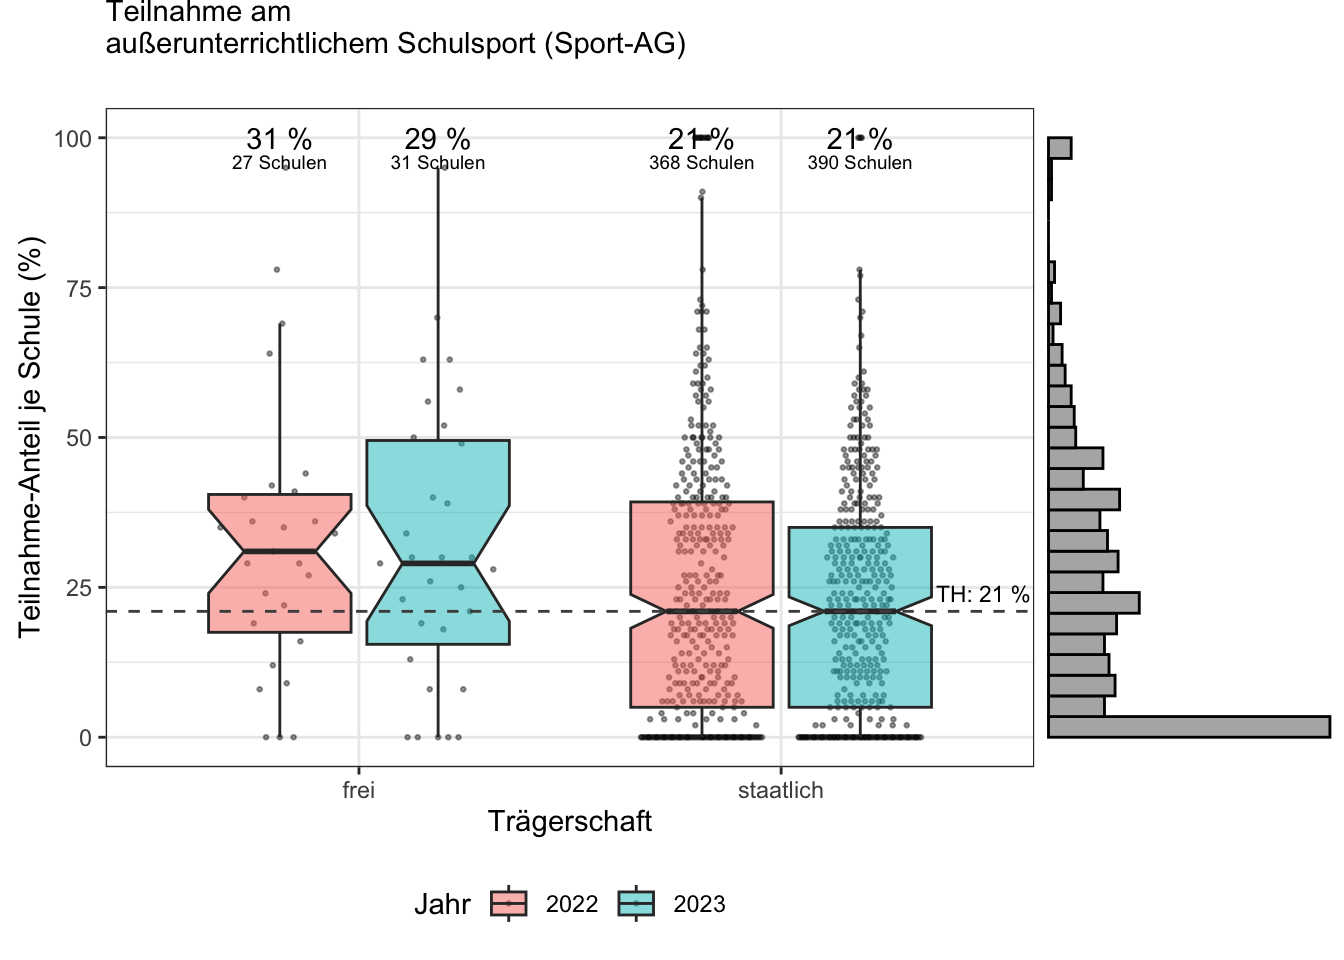
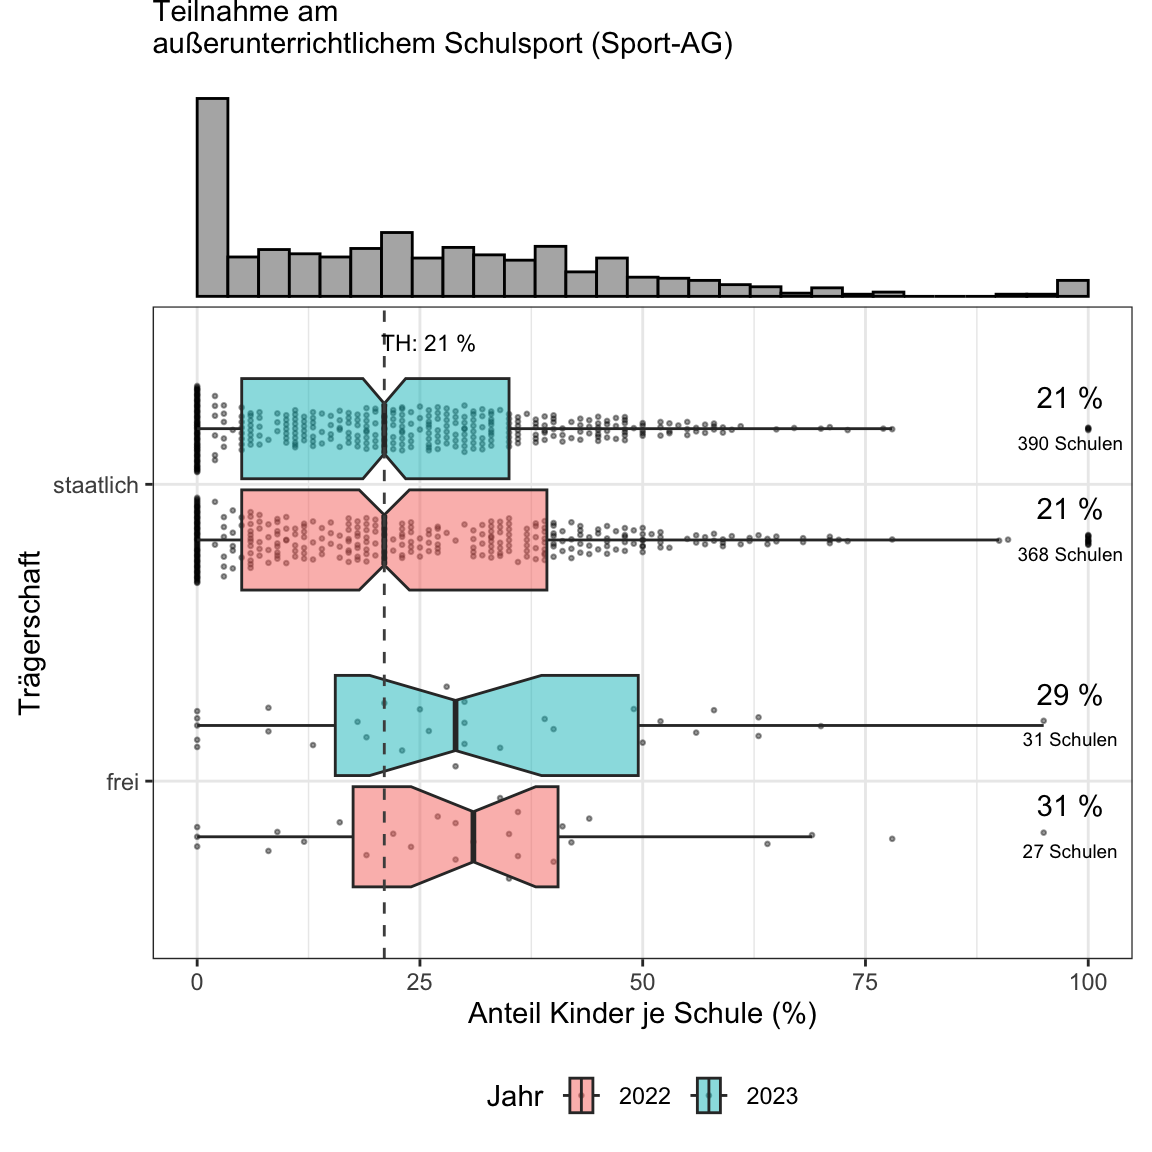
018

diff --git a/docs/018.html b/docs/018.html
@@ -376,23 +376,23 @@ ul.task-list li input[type="checkbox"] {
 <div class="cell">
 <div class="cell-output-display">
 
-<div id="cispxkkene" style="padding-left:0px;padding-right:0px;padding-top:10px;padding-bottom:10px;overflow-x:auto;overflow-y:auto;width:auto;height:auto;">
-<style>#cispxkkene table {
+<div id="qgtrgipnit" style="padding-left:0px;padding-right:0px;padding-top:10px;padding-bottom:10px;overflow-x:auto;overflow-y:auto;width:auto;height:auto;">
+<style>#qgtrgipnit table {
   font-family: system-ui, 'Segoe UI', Roboto, Helvetica, Arial, sans-serif, 'Apple Color Emoji', 'Segoe UI Emoji', 'Segoe UI Symbol', 'Noto Color Emoji';
   -webkit-font-smoothing: antialiased;
   -moz-osx-font-smoothing: grayscale;
 }
 
-#cispxkkene thead, #cispxkkene tbody, #cispxkkene tfoot, #cispxkkene tr, #cispxkkene td, #cispxkkene th {
+#qgtrgipnit thead, #qgtrgipnit tbody, #qgtrgipnit tfoot, #qgtrgipnit tr, #qgtrgipnit td, #qgtrgipnit th {
   border-style: none;
 }
 
-#cispxkkene p {
+#qgtrgipnit p {
   margin: 0;
   padding: 0;
 }
 
-#cispxkkene .gt_table {
+#qgtrgipnit .gt_table {
   display: table;
   border-collapse: collapse;
   line-height: normal;
@@ -418,12 +418,12 @@ ul.task-list li input[type="checkbox"] {
   border-left-color: #D3D3D3;
 }
 
-#cispxkkene .gt_caption {
+#qgtrgipnit .gt_caption {
   padding-top: 4px;
   padding-bottom: 4px;
 }
 
-#cispxkkene .gt_title {
+#qgtrgipnit .gt_title {
   color: #333333;
   font-size: 125%;
   font-weight: initial;
@@ -435,7 +435,7 @@ ul.task-list li input[type="checkbox"] {
   border-bottom-width: 0;
 }
 
-#cispxkkene .gt_subtitle {
+#qgtrgipnit .gt_subtitle {
   color: #333333;
   font-size: 85%;
   font-weight: initial;
@@ -447,7 +447,7 @@ ul.task-list li input[type="checkbox"] {
   border-top-width: 0;
 }
 
-#cispxkkene .gt_heading {
+#qgtrgipnit .gt_heading {
   background-color: #FFFFFF;
   text-align: center;
   border-bottom-color: #FFFFFF;
@@ -459,13 +459,13 @@ ul.task-list li input[type="checkbox"] {
   border-right-color: #D3D3D3;
 }
 
-#cispxkkene .gt_bottom_border {
+#qgtrgipnit .gt_bottom_border {
   border-bottom-style: solid;
   border-bottom-width: 2px;
   border-bottom-color: #D3D3D3;
 }
 
-#cispxkkene .gt_col_headings {
+#qgtrgipnit .gt_col_headings {
   border-top-style: solid;
   border-top-width: 2px;
   border-top-color: #D3D3D3;
@@ -480,7 +480,7 @@ ul.task-list li input[type="checkbox"] {
   border-right-color: #D3D3D3;
 }
 
-#cispxkkene .gt_col_heading {
+#qgtrgipnit .gt_col_heading {
   color: #333333;
   background-color: #FFFFFF;
   font-size: 100%;
@@ -500,7 +500,7 @@ ul.task-list li input[type="checkbox"] {
   overflow-x: hidden;
 }
 
-#cispxkkene .gt_column_spanner_outer {
+#qgtrgipnit .gt_column_spanner_outer {
   color: #333333;
   background-color: #FFFFFF;
   font-size: 100%;
@@ -512,15 +512,15 @@ ul.task-list li input[type="checkbox"] {
   padding-right: 4px;
 }
 
-#cispxkkene .gt_column_spanner_outer:first-child {
+#qgtrgipnit .gt_column_spanner_outer:first-child {
   padding-left: 0;
 }
 
-#cispxkkene .gt_column_spanner_outer:last-child {
+#qgtrgipnit .gt_column_spanner_outer:last-child {
   padding-right: 0;
 }
 
-#cispxkkene .gt_column_spanner {
+#qgtrgipnit .gt_column_spanner {
   border-bottom-style: solid;
   border-bottom-width: 2px;
   border-bottom-color: #D3D3D3;
@@ -532,11 +532,11 @@ ul.task-list li input[type="checkbox"] {
   width: 100%;
 }
 
-#cispxkkene .gt_spanner_row {
+#qgtrgipnit .gt_spanner_row {
   border-bottom-style: hidden;
 }
 
-#cispxkkene .gt_group_heading {
+#qgtrgipnit .gt_group_heading {
   padding-top: 8px;
   padding-bottom: 8px;
   padding-left: 5px;
@@ -562,7 +562,7 @@ ul.task-list li input[type="checkbox"] {
   text-align: left;
 }
 
-#cispxkkene .gt_empty_group_heading {
+#qgtrgipnit .gt_empty_group_heading {
   padding: 0.5px;
   color: #333333;
   background-color: #FFFFFF;
@@ -577,15 +577,15 @@ ul.task-list li input[type="checkbox"] {
   vertical-align: middle;
 }
 
-#cispxkkene .gt_from_md > :first-child {
+#qgtrgipnit .gt_from_md > :first-child {
   margin-top: 0;
 }
 
-#cispxkkene .gt_from_md > :last-child {
+#qgtrgipnit .gt_from_md > :last-child {
   margin-bottom: 0;
 }
 
-#cispxkkene .gt_row {
+#qgtrgipnit .gt_row {
   padding-top: 8px;
   padding-bottom: 8px;
   padding-left: 5px;
@@ -604,7 +604,7 @@ ul.task-list li input[type="checkbox"] {
   overflow-x: hidden;
 }
 
-#cispxkkene .gt_stub {
+#qgtrgipnit .gt_stub {
   color: #333333;
   background-color: #FFFFFF;
   font-size: 100%;
@@ -617,7 +617,7 @@ ul.task-list li input[type="checkbox"] {
   padding-right: 5px;
 }
 
-#cispxkkene .gt_stub_row_group {
+#qgtrgipnit .gt_stub_row_group {
   color: #333333;
   background-color: #FFFFFF;
   font-size: 100%;
@@ -631,15 +631,15 @@ ul.task-list li input[type="checkbox"] {
   vertical-align: top;
 }
 
-#cispxkkene .gt_row_group_first td {
+#qgtrgipnit .gt_row_group_first td {
   border-top-width: 2px;
 }
 
-#cispxkkene .gt_row_group_first th {
+#qgtrgipnit .gt_row_group_first th {
   border-top-width: 2px;
 }
 
-#cispxkkene .gt_summary_row {
+#qgtrgipnit .gt_summary_row {
   color: #333333;
   background-color: #FFFFFF;
   text-transform: inherit;
@@ -649,16 +649,16 @@ ul.task-list li input[type="checkbox"] {
   padding-right: 5px;
 }
 
-#cispxkkene .gt_first_summary_row {
+#qgtrgipnit .gt_first_summary_row {
   border-top-style: solid;
   border-top-color: #D3D3D3;
 }
 
-#cispxkkene .gt_first_summary_row.thick {
+#qgtrgipnit .gt_first_summary_row.thick {
   border-top-width: 2px;
 }
 
-#cispxkkene .gt_last_summary_row {
+#qgtrgipnit .gt_last_summary_row {
   padding-top: 8px;
   padding-bottom: 8px;
   padding-left: 5px;
@@ -668,7 +668,7 @@ ul.task-list li input[type="checkbox"] {
   border-bottom-color: #D3D3D3;
 }
 
-#cispxkkene .gt_grand_summary_row {
+#qgtrgipnit .gt_grand_summary_row {
   color: #333333;
   background-color: #FFFFFF;
   text-transform: inherit;
@@ -678,7 +678,7 @@ ul.task-list li input[type="checkbox"] {
   padding-right: 5px;
 }
 
-#cispxkkene .gt_first_grand_summary_row {
+#qgtrgipnit .gt_first_grand_summary_row {
   padding-top: 8px;
   padding-bottom: 8px;
   padding-left: 5px;
@@ -688,7 +688,7 @@ ul.task-list li input[type="checkbox"] {
   border-top-color: #D3D3D3;
 }
 
-#cispxkkene .gt_last_grand_summary_row_top {
+#qgtrgipnit .gt_last_grand_summary_row_top {
   padding-top: 8px;
   padding-bottom: 8px;
   padding-left: 5px;
@@ -698,11 +698,11 @@ ul.task-list li input[type="checkbox"] {
   border-bottom-color: #D3D3D3;
 }
 
-#cispxkkene .gt_striped {
+#qgtrgipnit .gt_striped {
   background-color: rgba(128, 128, 128, 0.05);
 }
 
-#cispxkkene .gt_table_body {
+#qgtrgipnit .gt_table_body {
   border-top-style: solid;
   border-top-width: 2px;
   border-top-color: #D3D3D3;
@@ -711,7 +711,7 @@ ul.task-list li input[type="checkbox"] {
   border-bottom-color: #D3D3D3;
 }
 
-#cispxkkene .gt_footnotes {
+#qgtrgipnit .gt_footnotes {
   color: #333333;
   background-color: #FFFFFF;
   border-bottom-style: none;
@@ -725,7 +725,7 @@ ul.task-list li input[type="checkbox"] {
   border-right-color: #D3D3D3;
 }
 
-#cispxkkene .gt_footnote {
+#qgtrgipnit .gt_footnote {
   margin: 0px;
   font-size: 90%;
   padding-top: 4px;
@@ -734,7 +734,7 @@ ul.task-list li input[type="checkbox"] {
   padding-right: 5px;
 }
 
-#cispxkkene .gt_sourcenotes {
+#qgtrgipnit .gt_sourcenotes {
   color: #333333;
   background-color: #FFFFFF;
   border-bottom-style: none;
@@ -748,7 +748,7 @@ ul.task-list li input[type="checkbox"] {
   border-right-color: #D3D3D3;
 }
 
-#cispxkkene .gt_sourcenote {
+#qgtrgipnit .gt_sourcenote {
   font-size: 90%;
   padding-top: 4px;
   padding-bottom: 4px;
@@ -756,63 +756,63 @@ ul.task-list li input[type="checkbox"] {
   padding-right: 5px;
 }
 
-#cispxkkene .gt_left {
+#qgtrgipnit .gt_left {
   text-align: left;
 }
 
-#cispxkkene .gt_center {
+#qgtrgipnit .gt_center {
   text-align: center;
 }
 
-#cispxkkene .gt_right {
+#qgtrgipnit .gt_right {
   text-align: right;
   font-variant-numeric: tabular-nums;
 }
 
-#cispxkkene .gt_font_normal {
+#qgtrgipnit .gt_font_normal {
   font-weight: normal;
 }
 
-#cispxkkene .gt_font_bold {
+#qgtrgipnit .gt_font_bold {
   font-weight: bold;
 }
 
-#cispxkkene .gt_font_italic {
+#qgtrgipnit .gt_font_italic {
   font-style: italic;
 }
 
-#cispxkkene .gt_super {
+#qgtrgipnit .gt_super {
   font-size: 65%;
 }
 
-#cispxkkene .gt_footnote_marks {
+#qgtrgipnit .gt_footnote_marks {
   font-size: 75%;
   vertical-align: 0.4em;
   position: initial;
 }
 
-#cispxkkene .gt_asterisk {
+#qgtrgipnit .gt_asterisk {
   font-size: 100%;
   vertical-align: 0;
 }
 
-#cispxkkene .gt_indent_1 {
+#qgtrgipnit .gt_indent_1 {
   text-indent: 5px;
 }
 
-#cispxkkene .gt_indent_2 {
+#qgtrgipnit .gt_indent_2 {
   text-indent: 10px;
 }
 
-#cispxkkene .gt_indent_3 {
+#qgtrgipnit .gt_indent_3 {
   text-indent: 15px;
 }
 
-#cispxkkene .gt_indent_4 {
+#qgtrgipnit .gt_indent_4 {
   text-indent: 20px;
 }
 
-#cispxkkene .gt_indent_5 {
+#qgtrgipnit .gt_indent_5 {
   text-indent: 25px;
 }
 </style>
@@ -881,16 +881,16 @@ ul.task-list li input[type="checkbox"] {
 <ul>
 <li><p>jeder Punkt versinnbildlicht eine Schule, wobei nur die Schulen für die folgenden beiden Grafik berücksichtigt wurden, an denen mindestens 10 Kinder an mindestens einem Motorik-Test teilnahmen sowie Angaben zu Geschlecht, möglicher Vereins- und Schulsport-AG-Teilnahme vorliegen;</p></li>
 <li><p>Box-Plots wurden nicht gewichtet nach Schulgröße (Anzahl an Kindern pro Schule) erstellt; bzw. jede Schule geht gleichwertig in die Berechnung der Mediane und Quartilsgrenzen ein</p></li>
-<li><p>Prozentwerte oberhalb der Boxplots sind Medianwert</p></li>
+<li><p>Prozentwerte rechts der Boxplots sind Medianwert</p></li>
 </ul>
 <div class="cell">
 <div class="cell-output-display">
-<p><img src="018_files/figure-html/unnamed-chunk-7-1.png" class="img-fluid" width="672"></p>
+<p><img src="018_files/figure-html/unnamed-chunk-7-1.png" class="img-fluid" width="576"></p>
 </div>
 </div>
 <div class="cell">
 <div class="cell-output-display">
-<p><img src="018_files/figure-html/unnamed-chunk-8-1.png" class="img-fluid" width="672"></p>
+<p><img src="018_files/figure-html/unnamed-chunk-8-1.png" class="img-fluid" width="576"></p>
 </div>
 </div>
 </section>
